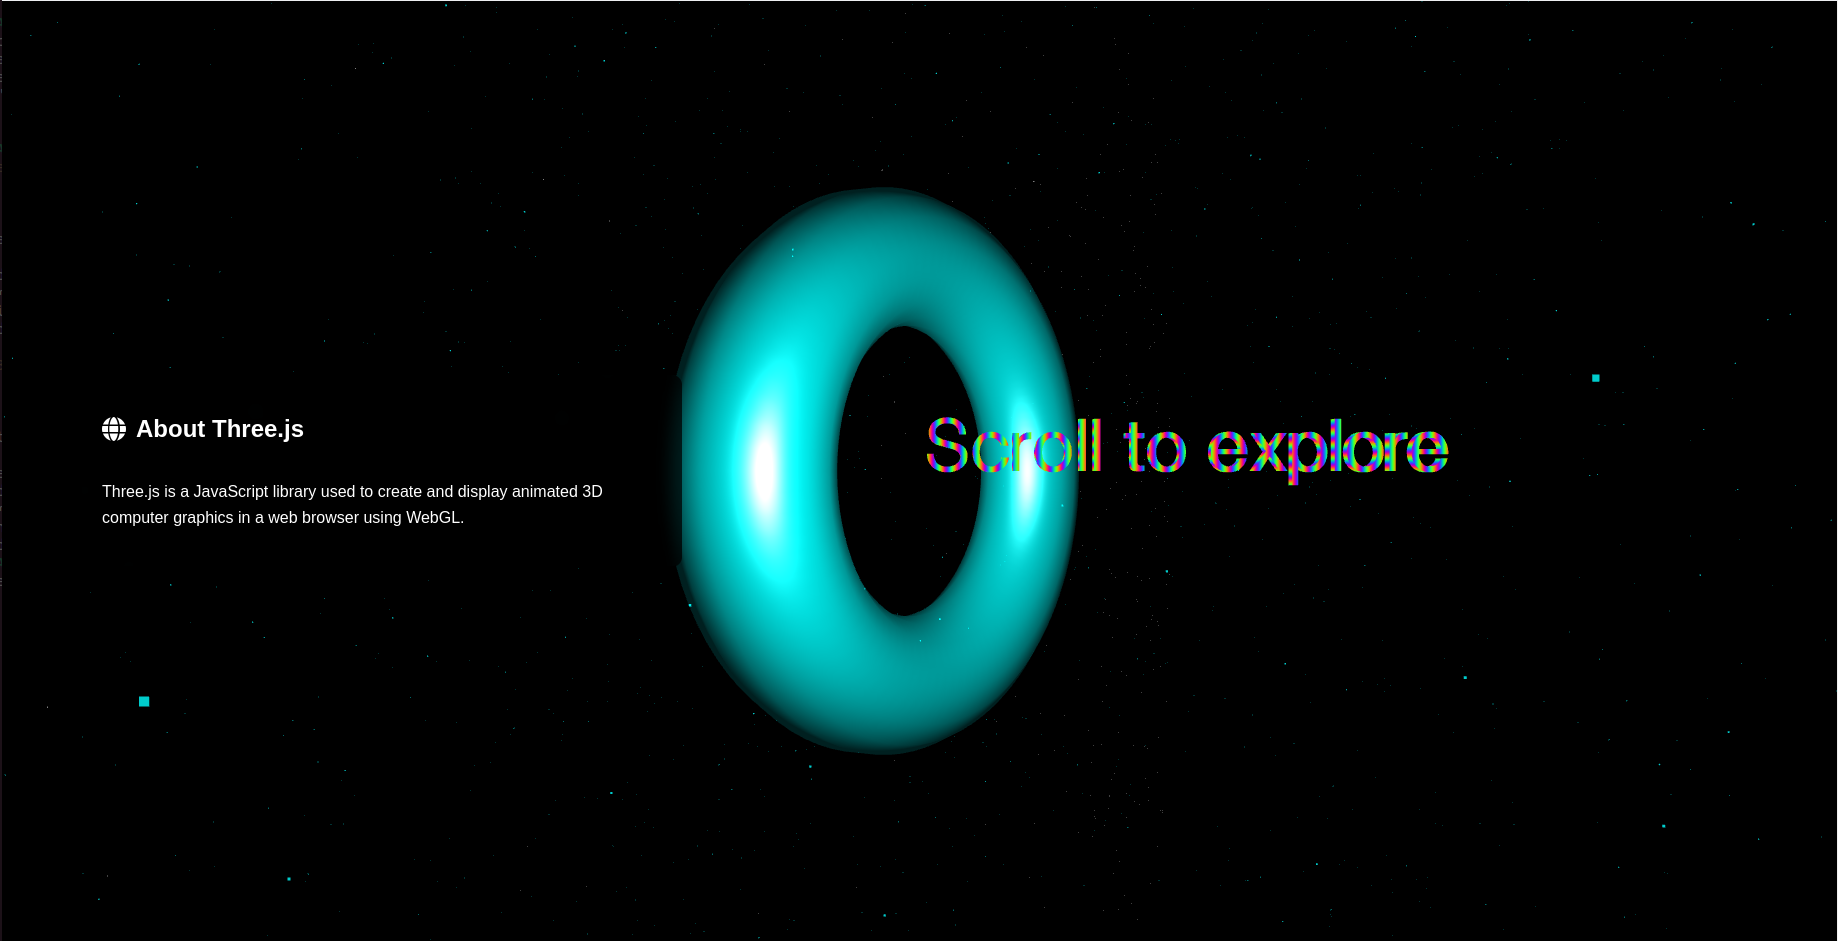
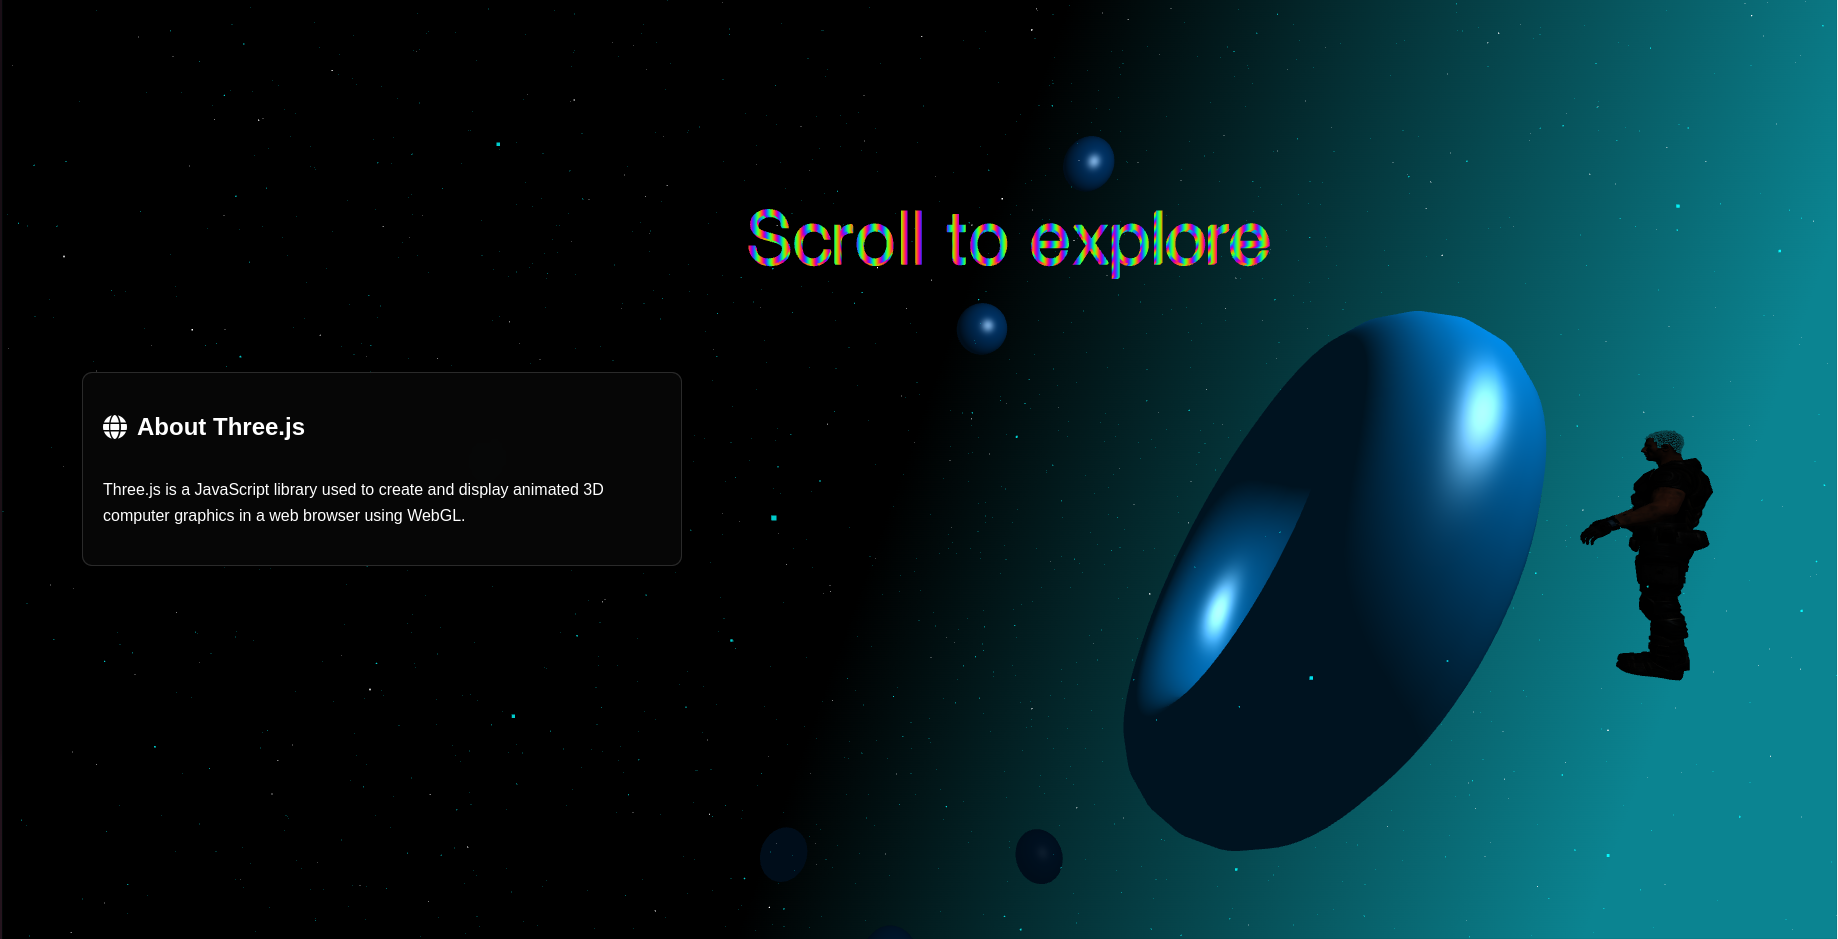
Conflict resolved

diff --git a/public/script.js b/public/script.js
@@ -42,6 +42,15 @@ function initializeScene() {
   const torus = new THREE.Mesh(torusGeometry, torusMaterial);
   scene.add(torus);
 
+  // Initial torus animation (zoom out and bounce)
+  gsap.from(torus.scale, {
+    x: 0.1,
+    y: 0.1,
+    z: 0.1,
+    duration: 1.5,
+    ease: "elastic.out(1, 0.3)",
+  });
+
   // Create text
   const loader = new THREE.FontLoader();
   let scrollTextMeshes = [];
@@ -168,6 +177,13 @@ function initializeScene() {
 
       // Add model to the scene
       scene.add(model);
+
+      // Initial model animation (move from bottom to top)
+      gsap.from(model.position, {
+        y: -50,
+        duration: 2,
+        ease: "power2.out",
+      });
     },
     undefined,
     function (error) {
@@ -195,6 +211,25 @@ function initializeScene() {
   }
 
   scene.add(blueShapesGroup);
+
+  // Create new geometric models
+  const geometries = [
+    new THREE.BoxGeometry(5, 5, 5),
+    new THREE.CircleGeometry(3, 32),
+    new THREE.ConeGeometry(3, 5, 32),
+  ];
+
+  const blueMaterial = new THREE.MeshPhongMaterial({ color: 0x0066cc });
+
+  const newModels = [];
+
+  for (let i = 0; i < geometries.length; i++) {
+    const mesh = new THREE.Mesh(geometries[i], blueMaterial);
+    mesh.position.set((i - 1) * 15, 40, 0);
+    mesh.rotation.x = Math.PI / 6; // Incline the models
+    scene.add(mesh);
+    newModels.push(mesh);
+  }
 
   // Scroll-based navigation
   let scrollY = 0;
@@ -245,6 +280,7 @@ function initializeScene() {
       const scale = 10 * (1 + 0.2 * Math.sin(scrollY * Math.PI * 2));
       gsap.to(model.position, {
         x: xTranslation + 10,
+        y: -10 + scrollY * 20, // Move from bottom to top
         duration: 1,
         ease: "power2.out",
       });
@@ -271,7 +307,7 @@ function initializeScene() {
       }
     }
 
-    // Update torus with zigzag pattern
+    // Update torus with zigzag pattern and bounce effect
     const xTranslation = 20 * Math.sin(scrollY * Math.PI * 4);
     const yTranslation = 10 * Math.cos(scrollY * Math.PI * 2);
     gsap.to(torus.position, {
@@ -286,6 +322,16 @@ function initializeScene() {
       y: scrollY * Math.PI * 4,
       duration: 1,
       ease: "power2.out",
+    });
+
+    // Add bounce effect to torus with decreasing height
+    const bounceHeight = 10 * (1 - scrollY); // Decrease bounce height as we scroll down
+    gsap.to(torus.position, {
+      y: yTranslation + Math.sin(Date.now() * 0.005) * bounceHeight,
+      duration: 0.5,
+      ease: "power1.inOut",
+      repeat: -1,
+      yoyo: true,
     });
 
     // Update text
@@ -348,6 +394,12 @@ function initializeScene() {
       shape.rotation.y += 0.01 * (index + 1);
     });
 
+    // Animate new geometric models
+    newModels.forEach((model, index) => {
+      model.rotation.y += 0.02;
+      model.rotation.z += 0.01;
+    });
+
     renderer.render(scene, camera);
   }
 
@@ -359,6 +411,7 @@ function initializeScene() {
     camera.updateProjectionMatrix();
     renderer.setSize(window.innerWidth, window.innerHeight);
   });
+
 
   // Generate gradient texture
   function generateGradientTexture() {

diff --git a/README.md b/README.md
@@ -60,3 +60,4 @@ This project demonstrates a simple Three.js setup with GSAP for scroll animation
 ![Scrolling Window Animation](screenshots/1.png) 
 ![Scrolling Window Animation](screenshots/2.png) 
 ![Scrolling Window Animation](screenshots/3.png) 
+![Scrolling Window Animation](screenshots/4.png) 
